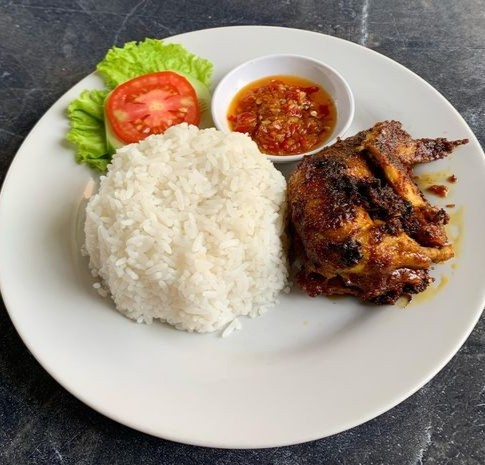
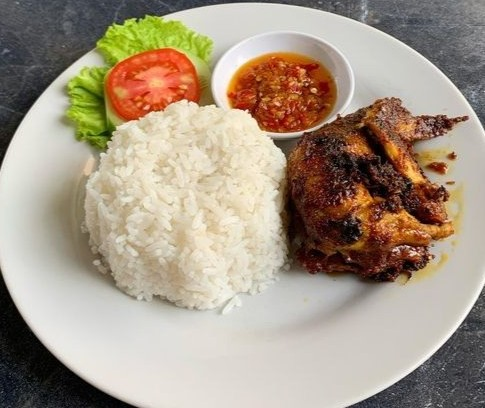
0

diff --git a/ProjekExpoKel1MoBis/ProjekEXPOKEL1MoBis/src/controller/LoginController.java b/ProjekExpoKel1MoBis/ProjekEXPOKEL1MoBis/src/controller/LoginController.java
@@ -56,7 +56,7 @@ public class LoginController {
                 Stage stage = (Stage) ((Node) event.getSource()).getScene().getWindow();
                 stage.setTitle(judulWindow);
                 stage.setScene(new Scene(root, 600, 400)); 
-                stage.setMaximized(true); 
+                stage.setMaximized(true);
                 stage.show();
             } catch (Exception e) {
                 lblPesanError.setText("Gagal memuat halaman dashboard!");

diff --git a/ProjekExpoKel1MoBis/ProjekEXPOKEL1MoBis/src/Main.java b/ProjekExpoKel1MoBis/ProjekEXPOKEL1MoBis/src/Main.java
@@ -11,7 +11,6 @@ public class Main extends Application {
         Scene scene = new Scene(root);
         stage.setScene(scene);
         stage.setTitle("Main");
-        stage.setMaximized(true);
         stage.show(); 
     }
 